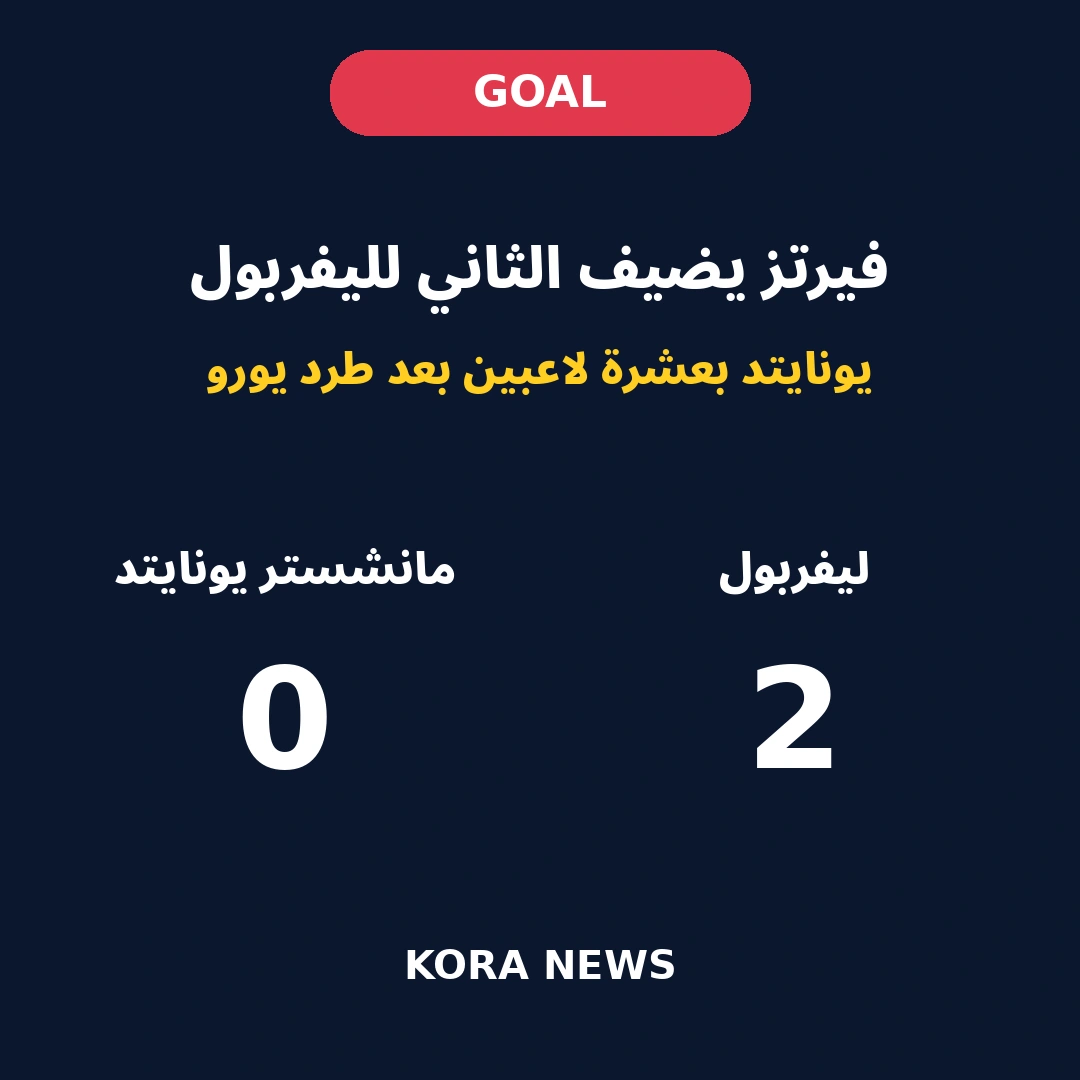
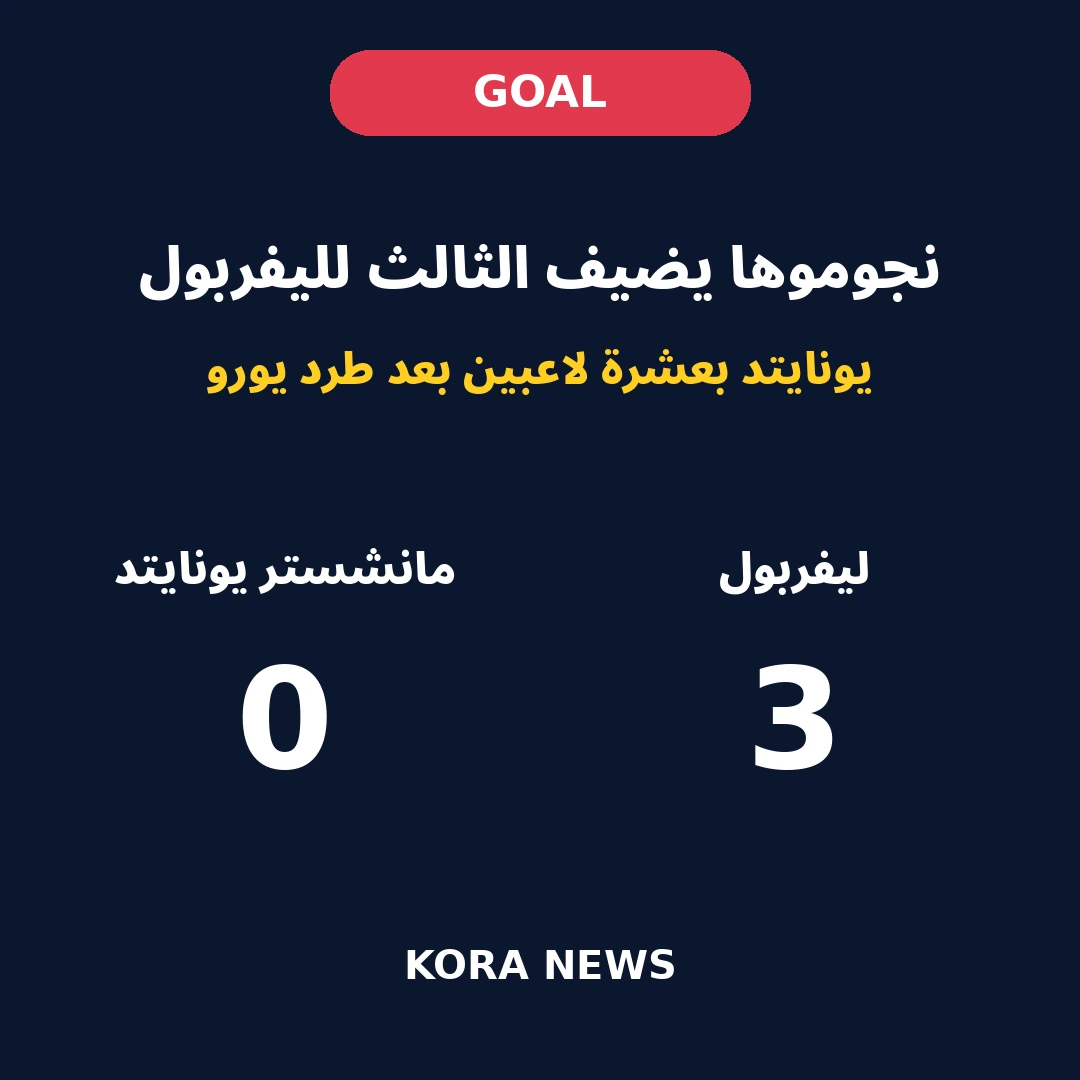
Update Liverpool United single coverage article for Ngumoha third goal

Changed region(s): [[0.1222, 0.2139, 0.8861, 0.3056], [0.7028, 0.6417, 0.7944, 0.7028]]

diff --git a/posts/2026-11-22-liverpool-manchester-united-coverage.md b/posts/2026-11-22-liverpool-manchester-united-coverage.md
@@ -1,13 +1,21 @@
 ---
-title: ليفربول ينهي الشوط الأول متقدمًا على مانشستر يونايتد بثنائية
-date: 2026-11-22T19:23:00+02:00
+title: نجوموها يضيف الثالث وليفربول يتقدم على مانشستر يونايتد بثلاثية
+date: 2026-11-22T20:02:00+02:00
 slug: liverpool-manchester-united-coverage
 category: متابعة المباريات
-excerpt: ليفربول ينهي الشوط الأول متقدمًا بهدفين دون رد، سجلهما سوبوسلاي وفيرتز، أمام مانشستر يونايتد الذي يلعب بعشرة لاعبين بعد طرد يورو. تحديث موثق عند 19:23 بتوقيت القاهرة، وليس نتيجة نهائية.
+excerpt: ريو نجوموها يسجل الثالث في الدقيقة 66، وليفربول يتقدم بثلاثة أهداف دون رد أمام مانشستر يونايتد الذي يلعب بعشرة لاعبين بعد طرد يورو. لقطة موثقة عند 20:02 بتوقيت القاهرة، وليست نتيجة نهائية.
 image: liverpool-manchester-united-coverage.webp
 ---
 
-## نهاية الشوط الأول، تحديث 19:23 بتوقيت القاهرة
+## نجوموها يضيف الثالث، تحديث 20:02 بتوقيت القاهرة
+
+سجل ريو نجوموها الهدف الثالث لليفربول في الدقيقة **66**، لترتفع النتيجة إلى **ثلاثة أهداف دون رد** أمام مانشستر يونايتد في أنفيلد.
+
+أكدت متابعة BBC Sport وصفحة نتائج ESPN النتيجة واسم المسجل ودقيقة الهدف في مراجعة عند **20:02 بتوقيت القاهرة يوم الأحد 22 نوفمبر 2026**، مع استمرار الشوط الثاني. وبقي يونايتد بعشرة لاعبين بعد طرد ليني يورو المبكر.
+
+هذه لقطة مؤرخة أثناء اللعب، وليست نتيجة نهائية أو خدمة تحديث مباشر. وترد أدناه مراحل سابقة من المباراة بترتيب الأحدث أولًا.
+
+## نهاية الشوط الأول، تحديث سابق عند 19:23 بتوقيت القاهرة
 
 أنهى ليفربول الشوط الأول متقدمًا على مانشستر يونايتد **بهدفين دون رد** في أنفيلد، بتوقيع دومينيك سوبوسلاي وفلوريان فيرتز. وأكمل يونايتد الشوط بعشرة لاعبين بعد طرد ليني يورو.
 
